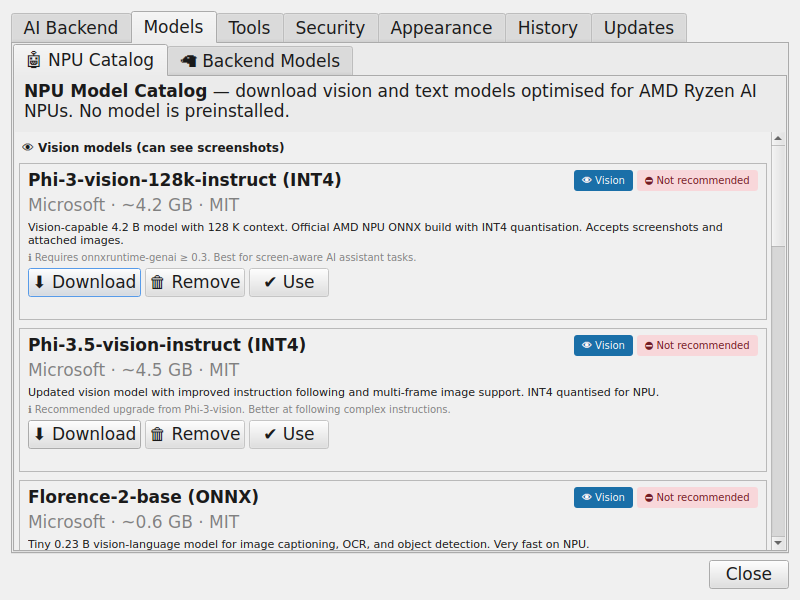
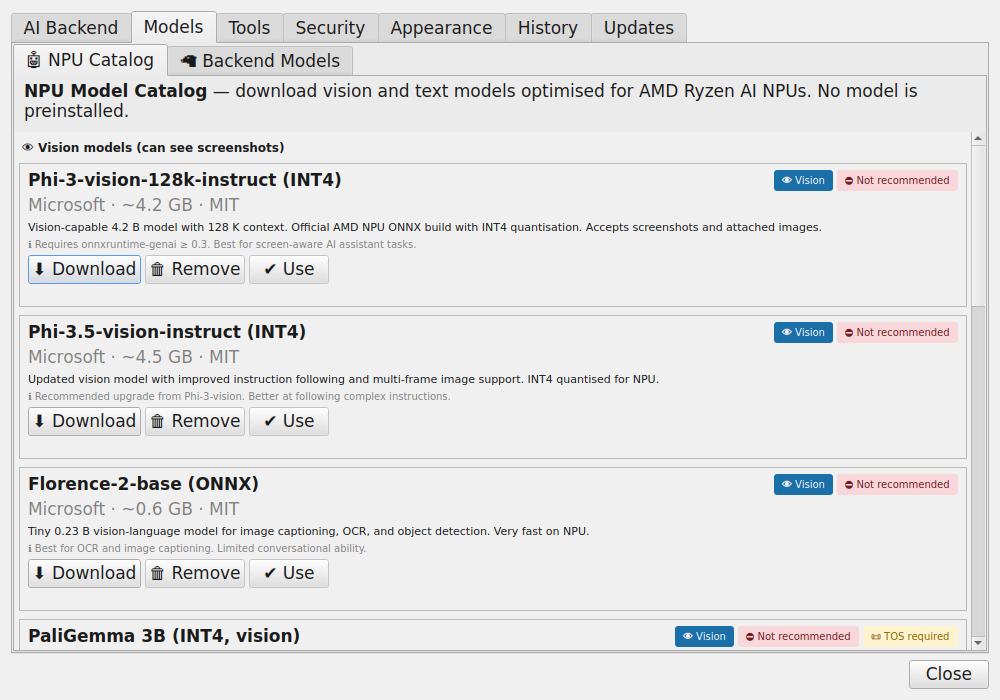
Update docs exception formats and regenerate models-tab.png

Changed region(s): [[0.0, 0.0, 1.0, 0.99]]

diff --git a/src/conversation.py b/src/conversation.py
@@ -554,8 +554,8 @@ class ConversationHistory:
             Number of messages successfully imported.
 
         Raises:
-            If *import_path* does not exist.
-            If the password is wrong, the file is not valid history JSON, or the file appears encrypted but no password was given.
+            FileNotFoundError: If *import_path* does not exist.
+            ValueError: If the password is wrong, the file is not valid history JSON, or the file appears encrypted but no password was given.
         """
         path = Path(import_path)
         if not path.exists():

diff --git a/src/npu_model_installer.py b/src/npu_model_installer.py
@@ -602,7 +602,7 @@ class NPUModelInstaller:
             Path to the primary ONNX file.
 
         Raises:
-            InstallError: Download or verification failed.
+            InstallError: InstallError: Download or verification failed.
         """
         if self.is_installed():
             _cb(progress_callback, f"Model already installed at {self.model_path()}")
@@ -804,7 +804,7 @@ def install_model_from_catalog(
         Path to the primary ONNX file.
 
     Raises:
-        Download or verification failed.
+        InstallError: Download or verification failed.
     """
     installer = NPUModelInstaller(install_dir=install_dir, entry=entry)
     return installer.install(

diff --git a/src/security.py b/src/security.py
@@ -294,8 +294,8 @@ def validate_tool_args(
         Sanitised copy of *args*.
 
     Raises:
-        If a required field from the schema is missing.
-        If a field\'s value is of the wrong primitive type.
+        ValueError: If a required field from the schema is missing.
+        ValueError: If a field's value is of the wrong primitive type.
     """
     cleaned: dict[str, Any] = {}
     for key, value in args.items():

diff --git a/src/gui/npu_theme.py b/src/gui/npu_theme.py
@@ -91,7 +91,7 @@ QTabBar::tab:focus {{
 }}
 
 /* ── Item Views (Lists and Tables) ──────────────────────────────────────── */
-QListWidget:focus, QTableWidget:focus, QScrollArea:focus {{
+QListWidget:focus, QTableWidget:focus, QScrollArea:focus, QTabWidget:focus {{
     border: 1px solid {BLUE};
     outline: none;
 }}

diff --git a/src/gui/theme.py b/src/gui/theme.py
@@ -441,7 +441,7 @@ def apply_to_app(app: object, theme: Theme | None = None) -> Theme:
         The theme that was applied (useful for inspection / testing).
 
     Raises:
-        If PyQt5 is not installed.
+        ImportError: If PyQt5 is not installed.
     """
     try:
         from PyQt5.QtGui import QColor, QPalette

diff --git a/tests/test_model_selector.py b/tests/test_model_selector.py
@@ -6,7 +6,9 @@ from unittest.mock import MagicMock, patch
 
 # Mock missing dependencies
 if "requests" not in sys.modules:
+    import requests
     sys.modules["requests"] = MagicMock()
+    sys.modules["requests"].exceptions = requests.exceptions
 if "yaml" not in sys.modules:
     sys.modules["yaml"] = MagicMock()
 

diff --git a/tests/test_npu_model_installer.py b/tests/test_npu_model_installer.py
@@ -10,7 +10,9 @@ from unittest.mock import MagicMock, patch
 
 # Mock missing dependencies
 if "requests" not in sys.modules:
+    import requests
     sys.modules["requests"] = MagicMock()
+    sys.modules["requests"].exceptions = requests.exceptions
 if "yaml" not in sys.modules:
     sys.modules["yaml"] = MagicMock()
 

diff --git a/tests/test_web_fetch.py b/tests/test_web_fetch.py
@@ -164,7 +164,6 @@ def test_web_fetch_tool_run_unsupported_type(mock_session_cls):
 @patch("requests.Session")
 def test_web_fetch_tool_run_exception(mock_session_cls):
     import requests
-
     mock_session = MagicMock()
     mock_session.get.side_effect = requests.exceptions.RequestException("network error")
     mock_session_cls.return_value = mock_session

diff --git a/.jules/palette.md b/.jules/palette.md
@@ -16,3 +16,6 @@
 ## 2024-05-19 - Adding Keyboard Accessibility to Custom QFrame Cards
 **Learning:** Custom UI components in PyQt that inherit from `QFrame` or `QWidget` and act like buttons (using `mousePressEvent`) are completely inaccessible to keyboard users and screen readers by default. They lack semantic meaning and focus states.
 **Action:** When implementing custom cards that act as buttons (e.g., `_ModelCard`, `_ThemeCard`), always inject `setFocusPolicy(Qt.StrongFocus)`, `setAccessibleName()`, `keyPressEvent` for Space and Enter, and dynamic border styling in `focusInEvent` and `focusOutEvent` to ensure they are fully navigable and understandable via keyboard and screen reader.
+## 2024-05-20 - Adding Focus State for QTabWidget
+**Learning:** In PyQt applications, screen reader and keyboard accessibility require visible focus indicators for all navigable elements. While `QTabBar::tab` might have a focus style, the parent container `QTabWidget` can also receive focus when navigating tab structures. If `QTabWidget:focus` lacks explicit outline styling, keyboard users lose their visual orientation within complex tabbed dialogs.
+**Action:** When defining custom stylesheets (like in `src/gui/npu_theme.py`), always explicitly include `:focus` outline styles for container widgets such as `QTabWidget`, similar to `QListWidget`, `QTableWidget`, and `QScrollArea`.